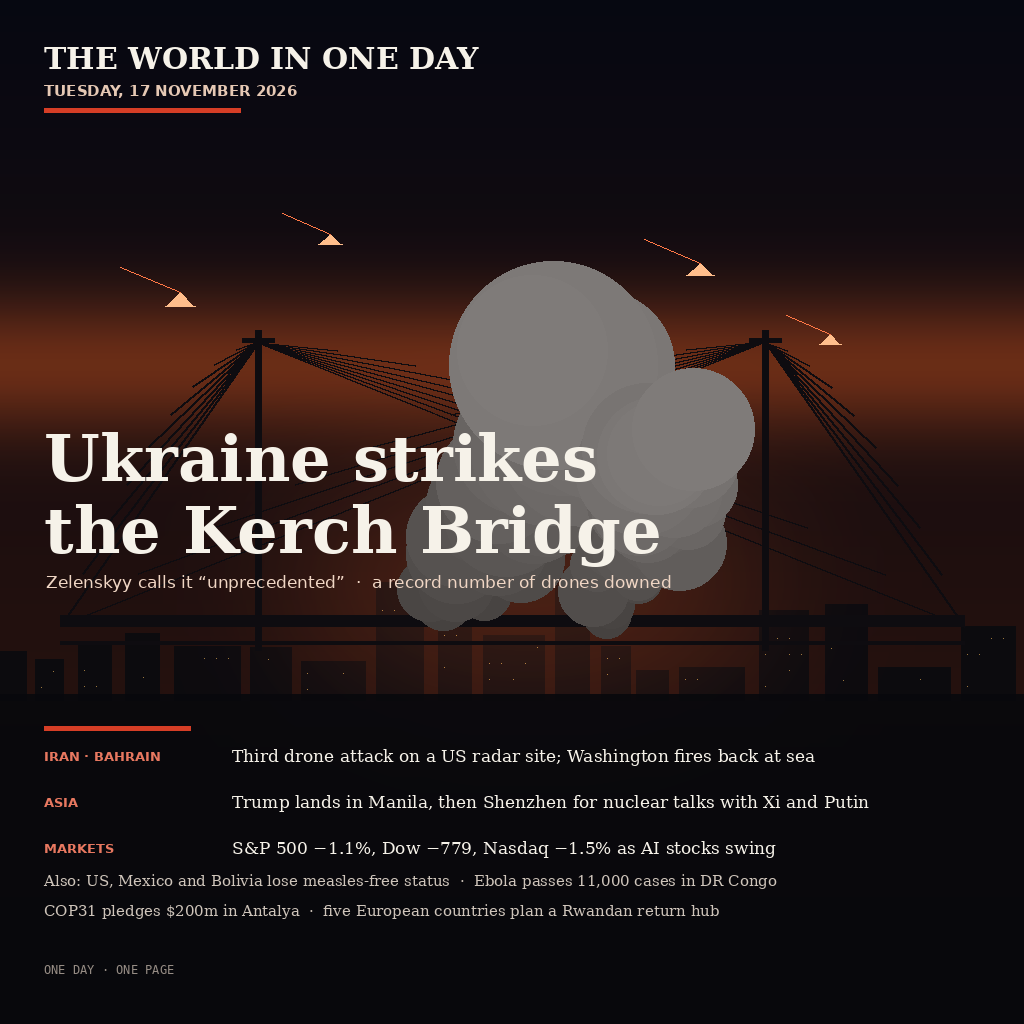
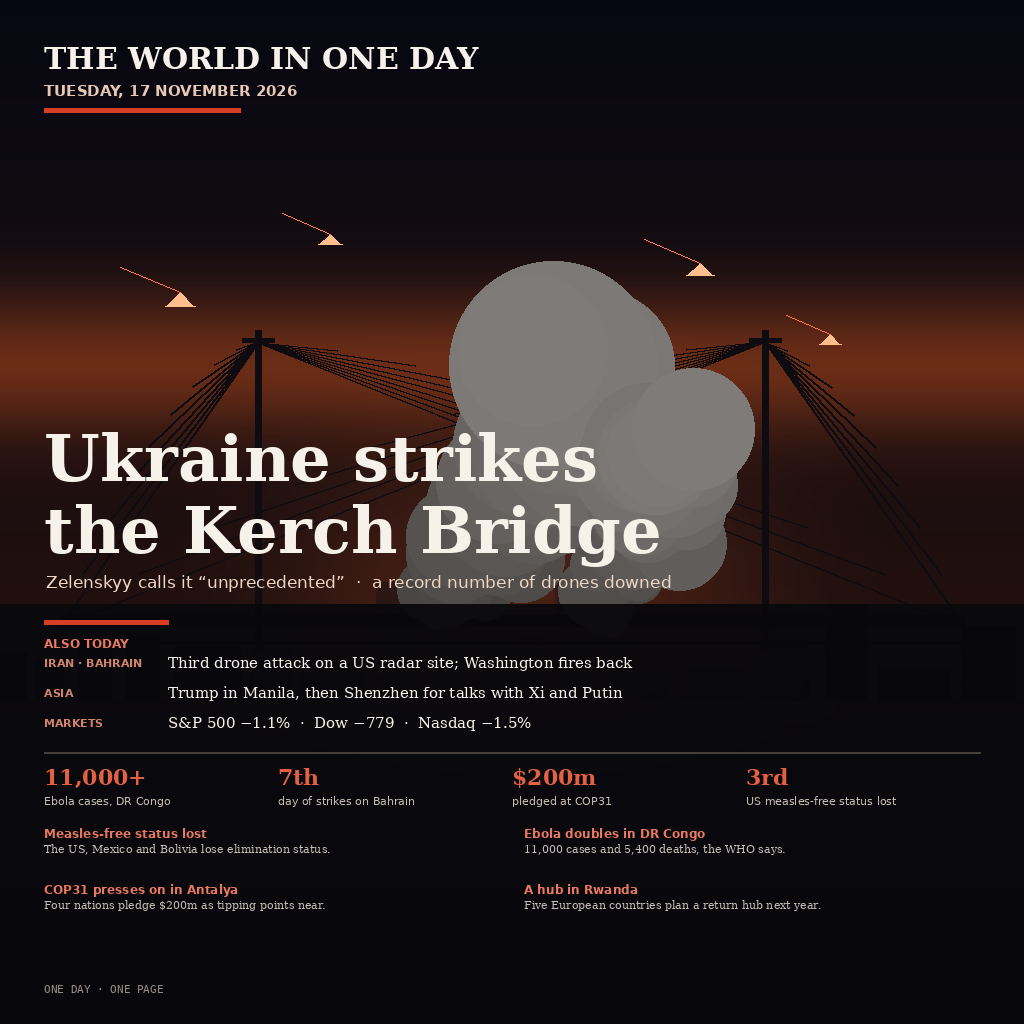
Poster variant with the numbers strip and briefs under the scene

diff --git a/poster2.py b/poster2.py
@@ -1,0 +1,171 @@
+#!/usr/bin/env python3
+"""Poster variant: a drawn scene of the day's lead story with the three top stories under it."""
+import math
+import os
+import random
+from PIL import Image, ImageDraw, ImageFilter, ImageFont
+
+W = H = 1024
+F = "/usr/share/fonts/truetype/dejavu/"
+SERIF_B = F + "DejaVuSerif-Bold.ttf"
+SERIF = F + "DejaVuSerif.ttf"
+SANS_B = F + "DejaVuSans-Bold.ttf"
+SANS = F + "DejaVuSans.ttf"
+MONO = F + "DejaVuSansMono.ttf"
+
+INK = (12, 14, 20)
+CREAM = (246, 242, 233)
+ACCENT = (214, 62, 38)
+
+
+def fnt(p, s):
+    return ImageFont.truetype(p, s)
+
+
+def sky(d, top, bottom, height=700):
+    for y in range(height):
+        t = y / max(1, height - 1)
+        # horizon glow near 55% height
+        glow = math.exp(-((t - 0.52) ** 2) / 0.010)
+        r = int(top[0] * (1 - t) + bottom[0] * t + 120 * glow)
+        g = int(top[1] * (1 - t) + bottom[1] * t + 46 * glow)
+        b = int(top[2] * (1 - t) + bottom[2] * t + 10 * glow)
+        d.line([(0, y), (W, y)], fill=(min(255, r), min(255, g), min(255, b)))
+
+
+def water(d, y0):
+    for y in range(y0, H):
+        t = (y - y0) / max(1, H - y0)
+        r = int(46 * (1 - t) + 8 * t)
+        g = int(24 * (1 - t) + 10 * t)
+        b = int(28 * (1 - t) + 16 * t)
+        d.line([(0, y), (W, y)], fill=(r, g, b))
+
+
+def cables(d, x0, x1, deck_y, tower_top, color):
+    towers = [x0 + (x1 - x0) * f for f in (0.22, 0.78)]
+    for tx in towers:
+        d.line([(tx, tower_top), (tx, deck_y + 30)], fill=color, width=7)
+        d.line([(tx - 16, tower_top + 10), (tx + 16, tower_top + 10)], fill=color, width=5)
+    # main cables and hangers
+    for tx in towers:
+        for side, end in ((0, x0), (1, x1)):
+            steps = 9
+            for i in range(1, steps + 1):
+                f = i / steps
+                cx = tx + (end - tx) * f
+                cy = tower_top + 14 + (deck_y + 6 - tower_top - 14) * (f ** 1.7)
+                d.line([(tx, tower_top + 12), (cx, cy)], fill=color, width=2)
+    d.line([(x0, deck_y), (x1, deck_y)], fill=color, width=12)
+    d.line([(x0, deck_y + 22), (x1, deck_y + 22)], fill=color, width=4)
+
+
+def smoke(d, x, y, scale, seed):
+    rnd = random.Random(seed)
+    for i in range(26):
+        t = i / 26
+        cx = x + rnd.uniform(-40, 40) * scale + 90 * t * scale
+        cy = y - 210 * t * scale + rnd.uniform(-14, 14)
+        r = (26 + 54 * t) * scale * rnd.uniform(0.75, 1.15)
+        shade = int(70 + 60 * t)
+        d.ellipse([cx - r, cy - r, cx + r, cy + r],
+                  fill=(shade, shade - 4, shade - 6))
+
+
+def drones(d, pts, color=(255, 190, 140)):
+    for (x, y, s) in pts:
+        d.polygon([(x, y - 5 * s), (x + 9 * s, y + 4 * s), (x - 9 * s, y + 4 * s)], fill=color)
+        d.line([(x - 10 * s, y + 4 * s), (x + 10 * s, y + 4 * s)], fill=color, width=max(1, int(s)))
+        d.line([(x, y - 5 * s), (x - 40 * s, y - 22 * s)], fill=(255, 120, 70), width=1)
+
+
+def main(out):
+    img = Image.new("RGB", (W, H), INK)
+    d = ImageDraw.Draw(img)
+    sky(d, (10, 12, 26), (54, 26, 22))
+    water(d, 700)
+    # distant city silhouette
+    rnd = random.Random(7)
+    x = -20
+    while x < W + 40:
+        bw = rnd.randint(26, 74)
+        bh = rnd.randint(30, 120)
+        d.rectangle([x, 700 - bh, x + bw, 700], fill=(18, 16, 22))
+        for wy in range(700 - bh + 12, 690, 16):
+            for wx in range(x + 6, x + bw - 6, 12):
+                if rnd.random() < 0.28:
+                    d.point((wx, wy), fill=(220, 170, 90))
+        x += bw + rnd.randint(6, 18)
+    # fire glow behind the bridge
+    glow = Image.new("RGB", (W, H), (0, 0, 0))
+    gd = ImageDraw.Draw(glow)
+    gd.ellipse([300, 470, 760, 700], fill=(150, 60, 20))
+    glow = glow.filter(ImageFilter.GaussianBlur(70))
+    img = Image.blend(img, Image.blend(img, glow, 0.55), 0.55)
+    d = ImageDraw.Draw(img)
+    # bridge + smoke + drones
+    cables(d, 60, 964, 620, 330, (14, 12, 16))
+    smoke(d, 470, 600, 1.25, 3)
+    smoke(d, 610, 612, 0.85, 11)
+    drones(d, [(180, 300, 1.5), (330, 240, 1.2), (700, 270, 1.4), (830, 340, 1.1)])
+    # dark scrim at the bottom for the text band
+    band = Image.new("RGBA", (W, 420), (8, 8, 12, 238))
+    img.paste(Image.alpha_composite(img.crop((0, 604, W, H)).convert("RGBA"), band).convert("RGB"), (0, 604))
+    d = ImageDraw.Draw(img)
+
+    # top label
+    d.text((44, 40), "THE WORLD IN ONE DAY", font=fnt(SERIF_B, 30), fill=CREAM)
+    d.text((44, 82), "TUESDAY, 17 NOVEMBER 2026", font=fnt(SANS_B, 15), fill=(230, 200, 180))
+    d.rectangle([44, 108, 240, 112], fill=ACCENT)
+
+    # headline over the image
+    d.text((44, 420), "Ukraine strikes", font=fnt(SERIF_B, 64), fill=CREAM)
+    d.text((44, 492), "the Kerch Bridge", font=fnt(SERIF_B, 64), fill=CREAM)
+    d.text((46, 572), "Zelenskyy calls it \u201cunprecedented\u201d  \u00b7  a record number of drones downed",
+           font=fnt(SANS, 17), fill=(240, 214, 196))
+
+    # bottom: three leads, a numbers strip, and four briefs
+    y = 620
+    d.rectangle([44, y, 168, y + 4], fill=ACCENT)
+    y += 16
+    d.text((44, y), "ALSO TODAY", font=fnt(SANS_B, 12), fill=(232, 120, 96))
+    y += 20
+    leads = [("IRAN \u00b7 BAHRAIN", "Third drone attack on a US radar site; Washington fires back"),
+             ("ASIA", "Trump in Manila, then Shenzhen for talks with Xi and Putin"),
+             ("MARKETS", "S&P 500 \u22121.1%  \u00b7  Dow \u2212779  \u00b7  Nasdaq \u22121.5%")]
+    for label, line in leads:
+        d.text((44, y), label, font=fnt(SANS_B, 11), fill=(210, 132, 108))
+        d.text((168, y - 2), line, font=fnt(SERIF, 15), fill=CREAM)
+        y += 30
+    y += 6
+    d.rectangle([44, y, W - 44, y + 1], fill=(70, 62, 58))
+    y += 12
+    nums = [("11,000+", "Ebola cases, DR Congo"), ("7th", "day of strikes on Bahrain"),
+            ("$200m", "pledged at COP31"), ("3rd", "US measles-free status lost")]
+    cw = (W - 88) // 4
+    for i, (num, cap) in enumerate(nums):
+        cx = 44 + i * cw
+        d.text((cx, y), num, font=fnt(SERIF_B, 22), fill=(226, 96, 68))
+        d.text((cx, y + 30), cap, font=fnt(SANS, 11), fill=(198, 188, 178))
+    y += 62
+    briefs = [("Measles-free status lost", "The US, Mexico and Bolivia lose elimination status."),
+              ("Ebola doubles in DR Congo", "11,000 cases and 5,400 deaths, the WHO says."),
+              ("COP31 presses on in Antalya", "Four nations pledge $200m as tipping points near."),
+              ("A hub in Rwanda", "Five European countries plan a return hub next year.")]
+    col_w = (W - 88 - 24) // 2
+    for i, (head, body) in enumerate(briefs):
+        cx = 44 + (i % 2) * (col_w + 24)
+        cy = y + (i // 2) * 56
+        d.text((cx, cy), head, font=fnt(SANS_B, 12), fill=(232, 120, 96))
+        para = body
+        d.text((cx, cy + 16), para, font=fnt(SERIF, 11), fill=(198, 190, 182))
+    d.text((44, 982), "ONE DAY \u00b7 ONE PAGE", font=fnt(MONO, 11), fill=(150, 140, 132))
+
+    img.save(out, "PNG", optimize=True)
+    return out
+
+
+if __name__ == "__main__":
+    import sys
+    o = sys.argv[1] if len(sys.argv) > 1 else "poster.png"
+    print(main(o), os.path.getsize(o), "bytes")
